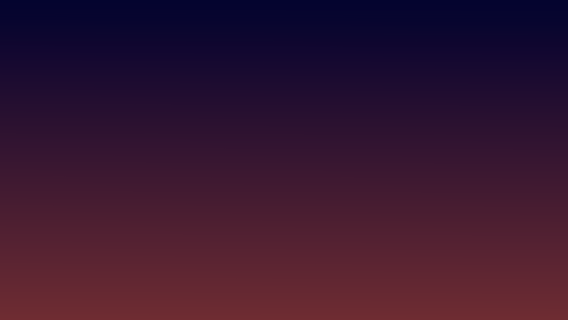
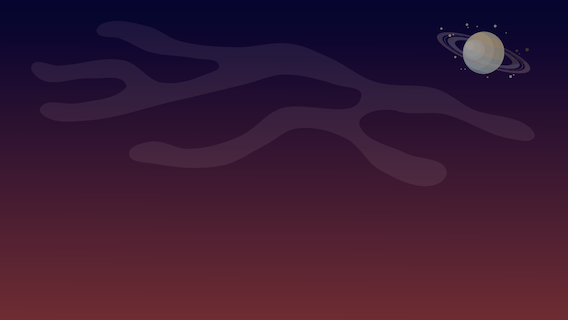
Update background images.

Changed region(s): [[0.7482, 0.0938, 0.9278, 0.25]]

diff --git a/Spacequest/ParallaxNode.swift b/Spacequest/ParallaxNode.swift
@@ -69,7 +69,7 @@ class ParallaxNode: SKEffectNode
             if index == 0
             {
                 newSpriteNode.position = CGPoint(
-                    x:-100 + self.frame.size.width/2,
+                    x: self.frame.size.width/2,
                     y: 0)
             }
             // Place next image.
@@ -78,7 +78,7 @@ class ParallaxNode: SKEffectNode
                 let previousSpriteNode = spriteNodes[index - 1]
                 
                 newSpriteNode.position = CGPoint(
-                    x: CGRectGetMaxX(previousSpriteNode.frame) + 5.0 + newSpriteNode.size.width/2,
+                    x: CGRectGetMaxX(previousSpriteNode.frame) + newSpriteNode.size.width/2,
                     y: 0)
             }
             
@@ -140,7 +140,13 @@ class ParallaxNode: SKEffectNode
         
         // Move the first node to the end.
         firstNode.position = CGPoint(
-            x: CGRectGetMaxX(lastNode.frame) + 5.0 + firstNode.size.width/2,
+            x: CGRectGetMaxX(lastNode.frame) + firstNode.size.width/2,
             y: 0)
+    }
+    
+    
+    func update(currentTime: CFTimeInterval)
+    {
+        
     }
 }

diff --git a/Spacequest/GameScene.swift b/Spacequest/GameScene.swift
@@ -48,7 +48,11 @@ class GameScene: SKScene
    
     override func update(currentTime: CFTimeInterval)
     {
-
+        // Update the background.
+        if self.paused == false
+        {
+            background!.update(currentTime)
+        }
     }
     
     
@@ -269,10 +273,10 @@ extension GameScene
     func configureBackground()
     {
         background = BackgroundNode(size: self.size, staticBackgroundImageName: ImageName.GameBackgroundPhone)
-                
+        
         background!.addLayer(
-            imageNames: ["Layer_0_0_iphone", "Layer_0_1_iphone"],//, "Layer_0_2_iphone", "Layer_0_3_iphone"],
-            speed: 100.0)
+            imageNames: ["Layer_0_0_iphone", "Layer_0_1_iphone"], //, "Layer_0_2_iphone", "Layer_0_3_iphone", "Layer_0_4_iphone"],
+            speed: 200.0)
         
         background!.configureInScene(self)
         background!.startScrolling()
